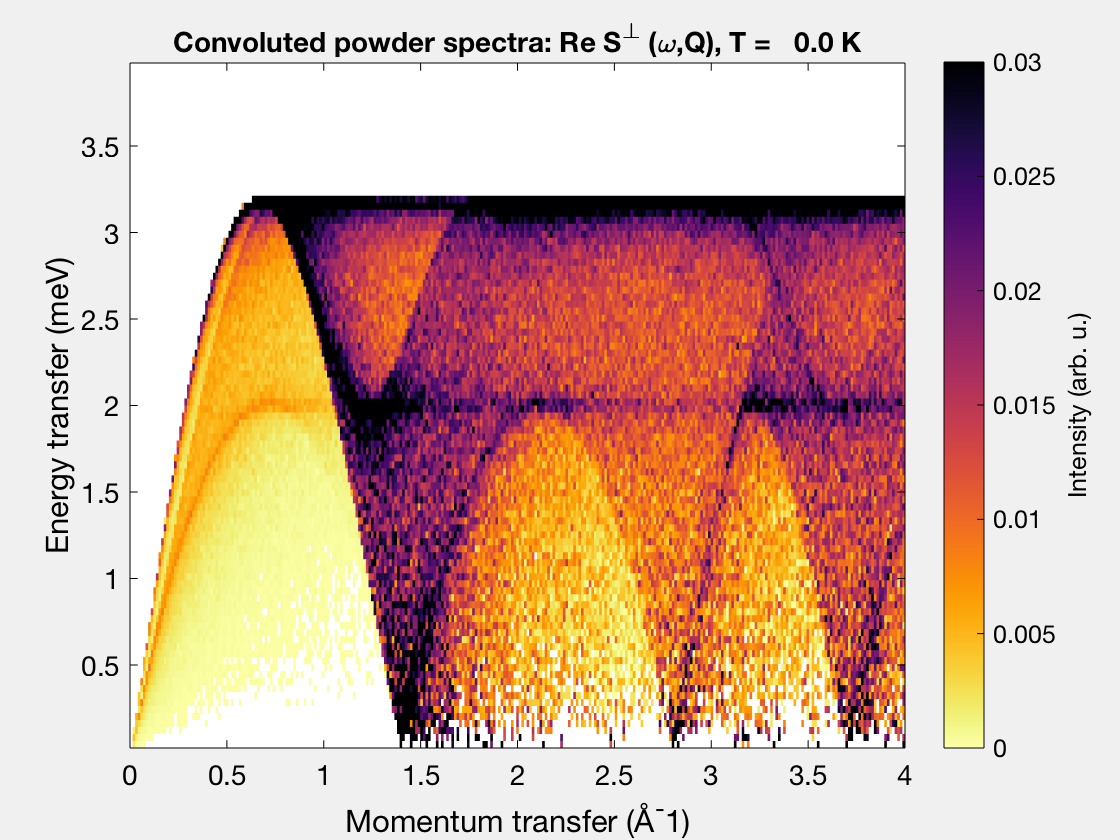
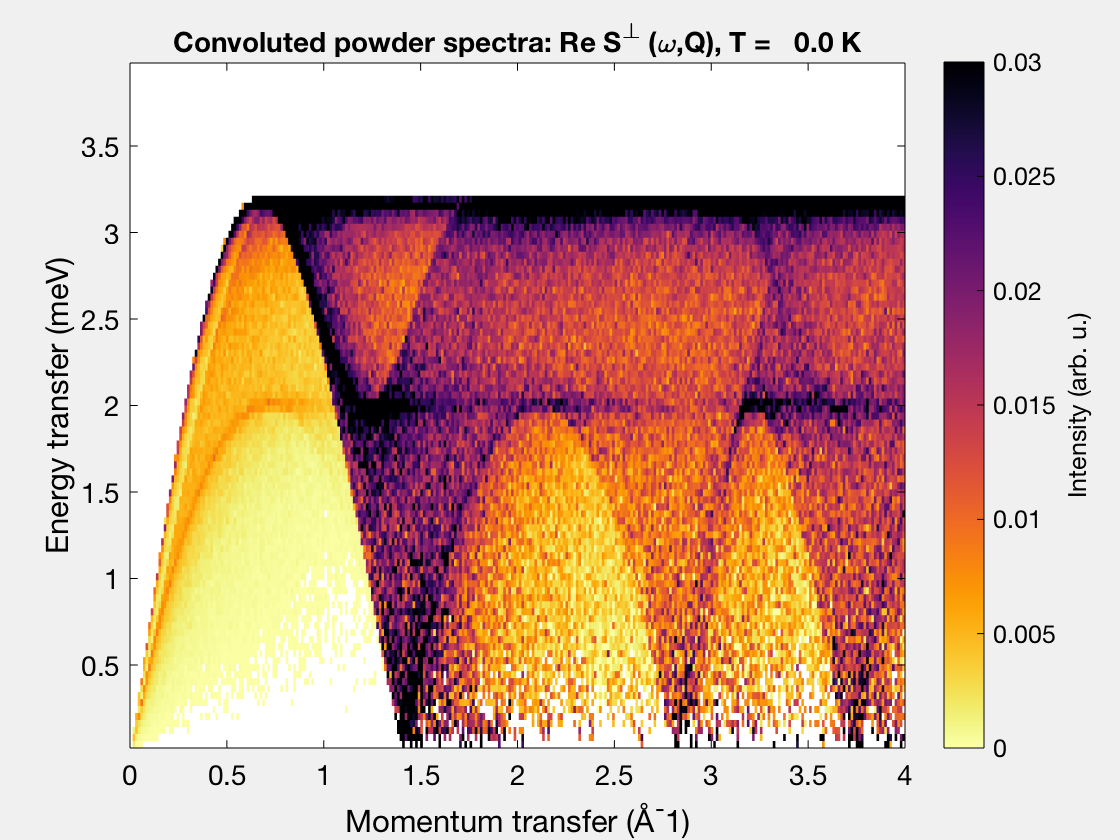
regenerating docs

Changed region(s): [[0.1562, 0.2167, 0.8125, 0.8976], [0.1875, 0.5571, 0.2188, 0.5881], [0.1562, 0.4952, 0.1875, 0.5262]]

diff --git a/docs/generator/docgen.m b/docs/generator/docgen.m
@@ -13,7 +13,7 @@ fun0 = cell(1,0);
 
 clc
 
-doctree = sw_genhelp('path',helpPath,'fun',fun0,'verstr',swver,'recalc',false);
+doctree = sw_genhelp('path',helpPath,'fun',fun0,'verstr',swver,'recalc',true);
 
 
 %% get all help
